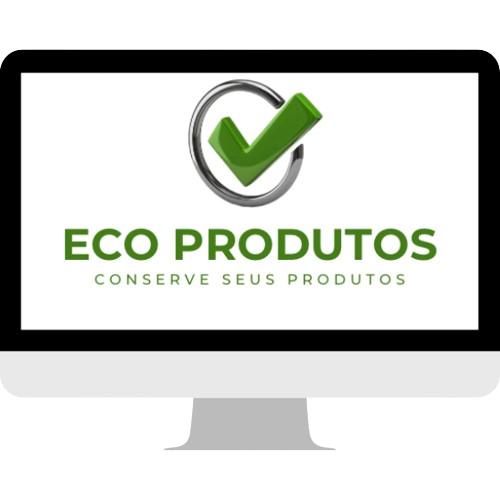
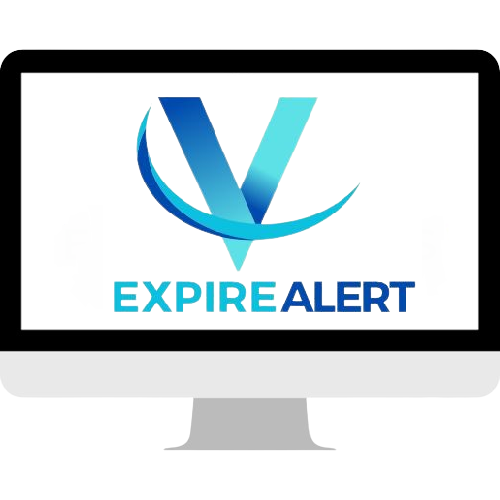
att remake

Changed region(s): [[0.12, 0.15, 0.87, 0.63]]

diff --git a/aprenda-usar.html b/aprenda-usar.html
@@ -4,21 +4,21 @@
     <meta charset="UTF-8">
     <meta name="viewport" content="width=device-width, initial-scale=1.0">
     <link rel="stylesheet" href="view4.css">
-    <link rel="shortcut icon" href="imagens/favicon.png" type="image/x-icon">
-    <title>Aprenda a usar - Eco Produtos</title>
+    <link rel="shortcut icon" href="imagens/expirealert_favicon.png" type="image/x-icon">
+    <title>Aprenda a usar - ExpireAlert</title>
 </head>
 <body>
     <main>
         <header>
             <div class="container">
-                <a href="ecoprodutos.html" rel="next"><img src="imagens/logo-picture.jpg" alt="logo" height="85px"></a>
+                <a href="expirealert.html" rel="next"><img src="imagens/expirealert_logoofc.png" alt="logo" height="85px"></a>
             </div>
         </header>
             <div class="passo">
                 <hr color="#8fffcc">
                 <h2>Como utilizar nosso site?</h2>
                 <picture>
-                    <img src="imagens/icon-pc-removebg-preview.png" alt="site" height="150px">
+                    <img src="imagens/icon-pc-expirealert.png" alt="site" height="150px">
                 </picture>
                 <h3>Passo 1: Abra seu navegador</h3>
                 <p>1. Como Chrome, Firefox ou Safari. Na barra de endereço digite a URL do nosso site. (www.ecoprodutos.com)</p>
@@ -26,7 +26,7 @@
             <div class="passo">
                 <hr color="#8fffcc">
                 <picture>
-                    <img src="imagens/icon-pc-removebg-preview.png" alt="site" height="150px">
+                    <img src="imagens/icon-pc-expirealert.png" alt="site" height="150px">
                 </picture>
                 <h3>Passo 2: Faça Login</h3>
                 <p>1. Na página principal, você irá encontrar campos para inserir seu nome de usuário, email e senha.</p>
@@ -36,7 +36,7 @@
             <div class="passo">
                 <hr color="#8fffcc">
                 <picture>
-                    <img src="imagens/icon-pc-removebg-preview.png" alt="site" height="150px">
+                    <img src="imagens/icon-pc-expirealert.png" alt="site" height="150px">
                 </picture>
                 <h3>Passo 3: Escolha sua Licença</h3>
                 <p>1. Você terá duas opções: (Licença Mensal) e (Licença Anual). Escolha a licença de sua preferência.</p>
@@ -44,7 +44,7 @@
             <div class="passo">
                 <hr color="#8fffcc">
                 <picture>
-                    <img src="imagens/icon-pc-removebg-preview.png" alt="site" height="150px">
+                    <img src="imagens/icon-pc-expirealert.png" alt="site" height="150px">
                 </picture>
                 <h3>Passo 4: Pagamento</h3>
                 <p>1. Você copia o código da chave pix e cola no seu banco para realizar o pagamento.</p>

diff --git a/view3.css b/view3.css
@@ -44,12 +44,13 @@ div > a {
     text-align: center;
     margin: auto;
     margin-bottom: 20px;
+    margin-right: 70px;
 }
 
 .mensal {
     text-align: center;
     text-decoration: none;
-    background-color: #43c88d;
+    background-color: #09C2DE;
     padding: 30px;
     padding-bottom: 70px;
     border-radius: 10px;
@@ -62,7 +63,7 @@ div > a {
 .anual {
     text-align: center;
     text-decoration: none;
-    background-color: #43c88d;
+    background-color: #09C2DE;
     padding-top: 30px;
     padding-bottom: 70px;
     padding-left: 32px;
@@ -75,12 +76,12 @@ div > a {
 }
 
 nav > .mensal:hover {
-    background-color: #5bffb5;
+    background-color: #87efff;
     box-shadow: 10px 10px 8px rgba(0, 0, 0, 0.268);
 }
 
 nav > .anual:hover {
-    background-color: #5bffb5;
+    background-color: #87efff;
     box-shadow: 10px 10px 8px rgba(0, 0, 0, 0.268);
 }
 
@@ -189,9 +190,10 @@ hr {
 
     header {
         min-height: 70px;
+        margin-left: 80px;
     }
 
     img {
-        height: 60px;
+        height: 80px;
     }
 }

diff --git a/controle-estoque.html b/controle-estoque.html
@@ -4,15 +4,15 @@
         <meta charset="UTF-8">
         <meta name="viewport" content="width=device-width, initial-scale=1.0">
         <meta http-equiv="X-UA-Compatible" content="ie=edge">
-        <link rel="shortcut icon" href="imagens/favicon.png" type="image/x-icon">
+        <link rel="shortcut icon" href="imagens/expirealert_favicon.png" type="image/x-icon">
         <link rel="stylesheet" href="view.css">
-        <title>Controle de Estoque - Eco Produtos</title>
+        <title>Controle de Estoque - ExpireAlert</title>
     </head>
     <body onload="mostrarResultado()">
         <main>
             <header>
                 <div class="titulo">
-                    <a href="ecoprodutos.html" rel="next"><img src="imagens/logo-picture.jpg" alt="logo" height="85px"></a>
+                    <a href="expirealert.html" rel="next"><img src="imagens/expirealert_logoofc.png" alt="logo" height="85px"></a>
                 </div>
             </header>
             <section class="layout">

diff --git a/expirealert.html b/expirealert.html
@@ -3,15 +3,15 @@
 <head>
     <meta charset="UTF-8">
     <meta name="viewport" content="width=device-width, initial-scale=1.0">
-    <link rel="shortcut icon" href="imagens/favicon.png" type="image/x-icon">
+    <link rel="shortcut icon" href="imagens/expirealert_favicon.png" type="image/x-icon">
     <link rel="stylesheet" href="view1.css">
-    <title>Eco Produtos</title>
+    <title>ExpireAlert</title>
 </head>
 <body>
     <main>
         <header>
             <div class="container">
-                <h1><img src="imagens/logo-picture.jpg" alt="logo" height="85px"></h1><img src="imagens/menu-icon-ofc.png" alt="menu" height="60px" class="perfil">
+                <h1><img src="imagens/expirealert_logoofc.png" alt="logo" height="85px"></h1><img src="imagens/menu-icon-ofc.png" alt="menu" height="60px" class="perfil">
             </div>
             <section>
                 <p>Use o nosso site para acompanhar a validade dos seus produtos e evitar desperdícios em seu estoque.</p>

diff --git a/view1.css b/view1.css
@@ -45,11 +45,12 @@ div > h1 {
     text-align: center;
     margin: auto;
     max-width: 450px;
+    margin-left: 150px;
 }
 
 .perfil {
     display: block;
-    margin-left: 400px;
+    margin-left: 500px;
 }
 
 .perfill {
@@ -75,7 +76,7 @@ section > p {
 
 nav {
     text-align: center;
-    background-color: #43c88d;
+    background-color: #09C2DE;
     padding: 11px 0px;
     border-radius: 10px;
     box-shadow: 3px 3px 8px rgba(0, 0, 0, 0.268);
@@ -129,7 +130,7 @@ nav {
 }
 
 nav > a:hover {
-    background-color: #5bffb5;
+    background-color: #87efff;
 }
 
 @media screen and (max-width: 768px) {
@@ -184,9 +185,9 @@ nav > a:hover {
     }
 
     img {
-        height: 60px;
-        margin-left: 70px;
-        margin-right: 70px;
+        height: 80px;
+        margin-left: 20px;
+        margin-right: 80px;
     }
 
     .perfil {

diff --git a/licenca.html b/licenca.html
@@ -4,14 +4,14 @@
     <meta charset="UTF-8">
     <meta name="viewport" content="width=device-width, initial-scale=1.0">
     <link rel="stylesheet" href="view3.css">
-    <link rel="shortcut icon" href="imagens/favicon.png" type="image/x-icon">
-    <title>Escolha sua Licença - Eco Produtos</title>
+    <link rel="shortcut icon" href="imagens/expirealert_favicon.png" type="image/x-icon">
+    <title>Escolha sua Licença - ExpireAlert</title>
 </head>
 <body>
     <main>
         <header>
             <div class="cabecalho">
-                <a href="ecoprodutos.html" rel="next"><img src="imagens/logo-picture.jpg" alt="logo" height="85px"></a>
+                <a href="expirealert.html" rel="next"><img src="imagens/expirealert_logoofc.png" alt="logo" height="85px"></a>
             </div>
         </header>
         <nav class="container">

diff --git a/sobre.html b/sobre.html
@@ -3,15 +3,15 @@
 <head>
     <meta charset="UTF-8">
     <meta name="viewport" content="width=device-width, initial-scale=1.0">
-    <link rel="shortcut icon" href="imagens/favicon.png" type="image/x-icon">
+    <link rel="shortcut icon" href="imagens/expirealert_favicon.png" type="image/x-icon">
     <link rel="stylesheet" href="view2.css">
-    <title>Sobre - Eco Produtos</title>
+    <title>Sobre - ExpireAlert</title>
 </head>
 <body>
     <main>
         <header>
             <div class="container">
-                <a href="ecoprodutos.html" rel="next"><img src="imagens/logo-picture.jpg" alt="logo" height="85px"></a>
+                <a href="expirealert.html" rel="next"><img src="imagens/expirealert_logoofc.png" alt="logo" height="85px"></a>
             </div>
         </header>
         <section class="sobre">

diff --git a/registrar.html b/registrar.html
@@ -3,15 +3,15 @@
 <head>
     <meta charset="UTF-8">
     <meta name="viewport" content="width=device-width, initial-scale=1.0">
-    <link rel="shortcut icon" href="imagens/favicon.png" type="image/x-icon">
+    <link rel="shortcut icon" href="imagens/expirealert_favicon.png" type="image/x-icon">
     <link rel="stylesheet" href="index.css">
-    <title>Registrar - Eco Produtos</title>
+    <title>Registrar - ExpireAlert</title>
 </head>
 <body>
     <main>
         <header>
             <div class="container">
-                <h1><img src="imagens/logo-picture.jpg" alt="logo" height="85px"></h1>
+                <h1><img src="imagens/expirealert_logoofc.png" alt="logo" height="85px"></h1>
             </div>
         </header>
         <section>

diff --git a/index.html b/index.html
@@ -3,15 +3,15 @@
 <head>
     <meta charset="UTF-8">
     <meta name="viewport" content="width=device-width, initial-scale=1.0">
-    <link rel="shortcut icon" href="imagens/favicon.png" type="image/x-icon">
+    <link rel="shortcut icon" href="imagens/expirealert_favicon.png" type="image/x-icon">
     <link rel="stylesheet" href="index.css">
-    <title>Login - Eco Produtos</title>
+    <title>Login - ExpireAlert</title>
 </head>
 <body>
     <main>
         <header>
             <div class="container">
-                <h1><img src="imagens/logo-picture.jpg" alt="logo" height="85px"></h1>
+                <h1><img src="imagens/expirealert_logoofc.png" alt="logo" height="85px"></h1>
             </div>
         </header>
         <section>

diff --git a/index.css b/index.css
@@ -60,7 +60,7 @@ section {
     box-shadow: 2px 5px 15px 5px #C7C7C7;
     padding: 30px 30px 50px 30px;
     width: 50%;
-    background-color: #43c88d;
+    background-color: #09C2DE;
     border-radius: 10px;
 }
 
@@ -86,7 +86,7 @@ section {
 #recover-password-button {
     width: 30%;
     border: 0;
-    background-color: #43c88d;
+    background-color: #09C2DE;
     cursor: pointer;
     color: black;
     font-size: 0.90em;
@@ -115,7 +115,7 @@ section {
 .outline {
     width: 98%;
     border: 0.5px solid black;
-    background-color: #43c88d;
+    background-color: #09C2DE;
     box-shadow: 3px 3px 8px rgba(0, 0, 0, 0.268);
     cursor: pointer;
     color: black;

diff --git a/view.css b/view.css
@@ -67,7 +67,7 @@ p {
 
 .entrada-dados {
     display: block;
-    background-color: #43c88d;
+    background-color: #09C2DE;
     border-radius: 10px;
     box-shadow: 3px 3px 8px rgba(0, 0, 0, 0.268);
     margin: 15px 15px 2px 15px;
@@ -132,7 +132,7 @@ p {
 
 .saida-dados {
     text-align: center;
-    background-color: #43c88d;
+    background-color: #09C2DE;
     font-size: 12px;
     border-radius: 10px;
     box-shadow: 3px 3px 8px rgba(0, 0, 0, 0.268);

diff --git a/pagamento-anual.html b/pagamento-anual.html
@@ -3,9 +3,9 @@
 <head>
     <meta charset="UTF-8">
     <meta name="viewport" content="width=device-width, initial-scale=1.0">
-    <link rel="shortcut icon" href="imagens/favicon.png" type="image/x-icon">
+    <link rel="shortcut icon" href="imagens/expirealert_favicon.png" type="image/x-icon">
     <link rel="stylesheet" href="view5.css">
-    <title>Eco Produtos</title>
+    <title>ExpireAlert</title>
 </head>
 <body>
     <section class="pagamento">
